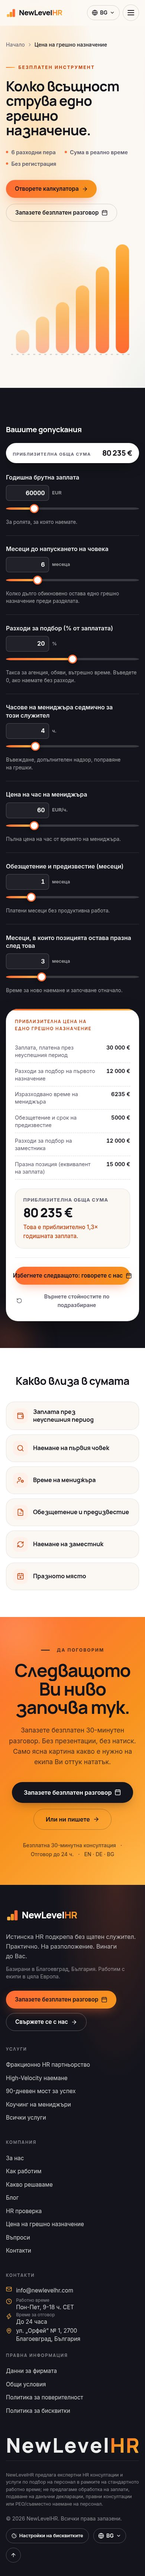
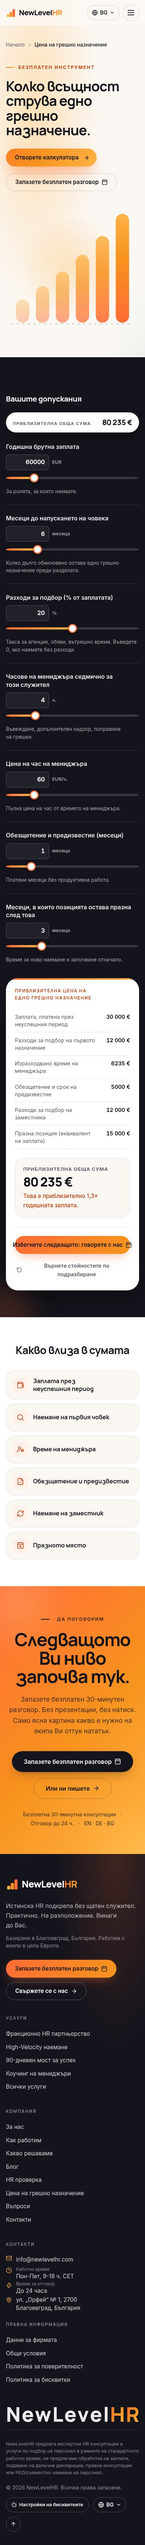
refactor: drop the facts row from the tool heroes
The two tool pages now go straight from the headline to the buttons, and
PageHero loses the `facts` prop that nothing else used.

Claude-Session: https://claude.ai/code/session_01CErwx2ZVAYE4J9YwqAKaqA

Changed region(s): [[0.0, 0.0312, 1.0, 0.9977], [0.7385, 0.9353, 0.8615, 0.9977], [0.8923, 0.9353, 0.9538, 0.9665]]

diff --git a/src/i18n/bg/tools.ts b/src/i18n/bg/tools.ts
@@ -10,7 +10,6 @@ export const tools: ToolsDict = {
       eyebrow: 'Безплатен инструмент',
       title: 'Пет въпроса. Една честна картина.',
       text: 'Къде е човешката страна на компанията Ви днес, за около минута. Нищо не се изпраща до нас и нищо не се запазва.',
-      facts: ['5 въпроса', 'Около минута', 'Без регистрация'],
       start: 'Започнете проверката',
     },
     areas: {
@@ -27,7 +26,6 @@ export const tools: ToolsDict = {
       eyebrow: 'Безплатен инструмент',
       title: 'Колко всъщност струва едно грешно назначение.',
       text: 'Нагласете допусканията към Вашата компания и вижте как числото се движи. Всеки ред от сметката се вижда, за да можете да оспорите всеки от тях.',
-      facts: ['6 разходни пера', 'Сума в реално време', 'Без регистрация'],
       start: 'Отворете калкулатора',
     },
     included: {

diff --git a/src/i18n/de/tools.ts b/src/i18n/de/tools.ts
@@ -10,7 +10,6 @@ export const tools: ToolsDict = {
       eyebrow: 'Kostenloses Werkzeug',
       title: 'Fünf Fragen. Ein ehrliches Bild.',
       text: 'Wo die People-Seite Ihres Unternehmens heute steht, in etwa einer Minute. Nichts wird an uns gesendet und nichts gespeichert.',
-      facts: ['5 Fragen', 'Etwa eine Minute', 'Ohne Anmeldung'],
       start: 'Check starten',
     },
     areas: {
@@ -27,7 +26,6 @@ export const tools: ToolsDict = {
       eyebrow: 'Kostenloses Werkzeug',
       title: 'Was eine Fehlbesetzung wirklich kostet.',
       text: 'Passen Sie die Annahmen an Ihr Unternehmen an und sehen Sie die Summe mitlaufen. Jede Zeile der Rechnung ist sichtbar, Sie können jede davon bestreiten.',
-      facts: ['6 Kostenpositionen', 'Summe in Echtzeit', 'Ohne Anmeldung'],
       start: 'Rechner öffnen',
     },
     included: {

diff --git a/src/i18n/en/tools.ts b/src/i18n/en/tools.ts
@@ -14,7 +14,6 @@ export const tools = {
       title: 'Five questions. One honest picture.',
       /** Long form, used by the tools teaser on the home page. */
       text: 'Where the people side of your company stands today, in about a minute. Nothing is sent to us and nothing is stored.',
-      facts: ['5 questions', 'About a minute', 'No sign-up'],
       start: 'Start the check',
     },
     areas: {
@@ -32,7 +31,6 @@ export const tools = {
       title: 'What one wrong hire actually costs.',
       /** Long form, used by the tools teaser on the home page. */
       text: 'Adjust the assumptions to your company and watch the number move. Every line of the calculation is visible, so you can argue with any of them.',
-      facts: ['6 cost lines', 'Live total', 'No sign-up'],
       start: 'Open the calculator',
     },
     included: {

diff --git a/docs/qa-screenshots/README.md b/docs/qa-screenshots/README.md
@@ -1,8 +1,8 @@
 # QA screenshots
 
-Generated 2026-09-22 12:04 UTC from `http://127.0.0.1:4173` with `npm run qa:screenshots`.
+Generated 2026-09-22 13:30 UTC from `http://127.0.0.1:4178` with `npm run qa:screenshots`.
 
-* 58 pages × 390 / 1440 px full-page screenshots, plus UI states per language.
+* 6 pages × 390 / 1440 px full-page screenshots, plus UI states per language.
 * Horizontal-overflow check at 360 / 390 / 768 / 1024 / 1280 / 1440 / 1920 px: **no page scrolls horizontally**.
 * Console errors while capturing: **0**.
 * Captures that failed: **0**.
@@ -15,143 +15,15 @@ not a blank section.
 
 | Page | Width | Overflow | JS errors | File |
 | --- | --- | --- | --- | --- |
-| /bg/ | 390 | no | 0 | [bg/home@390.jpg](./bg/home@390.jpg) |
-| /bg/ | 1440 | no | 0 | [bg/home@1440.jpg](./bg/home@1440.jpg) |
-| /bg/blog/ | 390 | no | 0 | [bg/blog@390.jpg](./bg/blog@390.jpg) |
-| /bg/blog/ | 1440 | no | 0 | [bg/blog@1440.jpg](./bg/blog@1440.jpg) |
-| /bg/blog/purvite-90-dni-reshavat/ | 390 | no | 0 | [bg/blog-purvite-90-dni-reshavat@390.jpg](./bg/blog-purvite-90-dni-reshavat@390.jpg) |
-| /bg/blog/purvite-90-dni-reshavat/ | 1440 | no | 0 | [bg/blog-purvite-90-dni-reshavat@1440.jpg](./bg/blog-purvite-90-dni-reshavat@1440.jpg) |
-| /bg/faq/ | 390 | no | 0 | [bg/faq@390.jpg](./bg/faq@390.jpg) |
-| /bg/faq/ | 1440 | no | 0 | [bg/faq@1440.jpg](./bg/faq@1440.jpg) |
 | /bg/hr-proverka/ | 390 | no | 0 | [bg/hr-proverka@390.jpg](./bg/hr-proverka@390.jpg) |
 | /bg/hr-proverka/ | 1440 | no | 0 | [bg/hr-proverka@1440.jpg](./bg/hr-proverka@1440.jpg) |
-| /bg/kak-rabotim/ | 390 | no | 0 | [bg/kak-rabotim@390.jpg](./bg/kak-rabotim@390.jpg) |
-| /bg/kak-rabotim/ | 1440 | no | 0 | [bg/kak-rabotim@1440.jpg](./bg/kak-rabotim@1440.jpg) |
-| /bg/kakvo-reshavame/ | 390 | no | 0 | [bg/kakvo-reshavame@390.jpg](./bg/kakvo-reshavame@390.jpg) |
-| /bg/kakvo-reshavame/ | 1440 | no | 0 | [bg/kakvo-reshavame@1440.jpg](./bg/kakvo-reshavame@1440.jpg) |
-| /bg/kontakti/ | 390 | no | 0 | [bg/kontakti@390.jpg](./bg/kontakti@390.jpg) |
-| /bg/kontakti/ | 1440 | no | 0 | [bg/kontakti@1440.jpg](./bg/kontakti@1440.jpg) |
-| /bg/obshti-usloviya/ | 390 | no | 0 | [bg/obshti-usloviya@390.jpg](./bg/obshti-usloviya@390.jpg) |
-| /bg/obshti-usloviya/ | 1440 | no | 0 | [bg/obshti-usloviya@1440.jpg](./bg/obshti-usloviya@1440.jpg) |
-| /bg/politika-za-biskvitki/ | 390 | no | 0 | [bg/politika-za-biskvitki@390.jpg](./bg/politika-za-biskvitki@390.jpg) |
-| /bg/politika-za-biskvitki/ | 1440 | no | 0 | [bg/politika-za-biskvitki@1440.jpg](./bg/politika-za-biskvitki@1440.jpg) |
-| /bg/poveritelnost/ | 390 | no | 0 | [bg/poveritelnost@390.jpg](./bg/poveritelnost@390.jpg) |
-| /bg/poveritelnost/ | 1440 | no | 0 | [bg/poveritelnost@1440.jpg](./bg/poveritelnost@1440.jpg) |
-| /bg/pravna-informatsia/ | 390 | no | 0 | [bg/pravna-informatsia@390.jpg](./bg/pravna-informatsia@390.jpg) |
-| /bg/pravna-informatsia/ | 1440 | no | 0 | [bg/pravna-informatsia@1440.jpg](./bg/pravna-informatsia@1440.jpg) |
 | /bg/tsena-na-greshno-naznachenie/ | 390 | no | 0 | [bg/tsena-na-greshno-naznachenie@390.jpg](./bg/tsena-na-greshno-naznachenie@390.jpg) |
 | /bg/tsena-na-greshno-naznachenie/ | 1440 | no | 0 | [bg/tsena-na-greshno-naznachenie@1440.jpg](./bg/tsena-na-greshno-naznachenie@1440.jpg) |
-| /bg/uslugi/ | 390 | no | 0 | [bg/uslugi@390.jpg](./bg/uslugi@390.jpg) |
-| /bg/uslugi/ | 1440 | no | 0 | [bg/uslugi@1440.jpg](./bg/uslugi@1440.jpg) |
-| /bg/uslugi/90-dneven-most-za-uspeh/ | 390 | no | 0 | [bg/uslugi-90-dneven-most-za-uspeh@390.jpg](./bg/uslugi-90-dneven-most-za-uspeh@390.jpg) |
-| /bg/uslugi/90-dneven-most-za-uspeh/ | 1440 | no | 0 | [bg/uslugi-90-dneven-most-za-uspeh@1440.jpg](./bg/uslugi-90-dneven-most-za-uspeh@1440.jpg) |
-| /bg/uslugi/fraktsionno-hr-partniorstvo/ | 390 | no | 0 | [bg/uslugi-fraktsionno-hr-partniorstvo@390.jpg](./bg/uslugi-fraktsionno-hr-partniorstvo@390.jpg) |
-| /bg/uslugi/fraktsionno-hr-partniorstvo/ | 1440 | no | 0 | [bg/uslugi-fraktsionno-hr-partniorstvo@1440.jpg](./bg/uslugi-fraktsionno-hr-partniorstvo@1440.jpg) |
-| /bg/uslugi/high-velocity-naemane/ | 390 | no | 0 | [bg/uslugi-high-velocity-naemane@390.jpg](./bg/uslugi-high-velocity-naemane@390.jpg) |
-| /bg/uslugi/high-velocity-naemane/ | 1440 | no | 0 | [bg/uslugi-high-velocity-naemane@1440.jpg](./bg/uslugi-high-velocity-naemane@1440.jpg) |
-| /bg/uslugi/kouching-za-menidzhari/ | 390 | no | 0 | [bg/uslugi-kouching-za-menidzhari@390.jpg](./bg/uslugi-kouching-za-menidzhari@390.jpg) |
-| /bg/uslugi/kouching-za-menidzhari/ | 1440 | no | 0 | [bg/uslugi-kouching-za-menidzhari@1440.jpg](./bg/uslugi-kouching-za-menidzhari@1440.jpg) |
-| /bg/za-nas/ | 390 | no | 0 | [bg/za-nas@390.jpg](./bg/za-nas@390.jpg) |
-| /bg/za-nas/ | 1440 | no | 0 | [bg/za-nas@1440.jpg](./bg/za-nas@1440.jpg) |
-| /de/ | 390 | no | 0 | [de/home@390.jpg](./de/home@390.jpg) |
-| /de/ | 1440 | no | 0 | [de/home@1440.jpg](./de/home@1440.jpg) |
-| /de/agb/ | 390 | no | 0 | [de/agb@390.jpg](./de/agb@390.jpg) |
-| /de/agb/ | 1440 | no | 0 | [de/agb@1440.jpg](./de/agb@1440.jpg) |
-| /de/blog/ | 390 | no | 0 | [de/blog@390.jpg](./de/blog@390.jpg) |
-| /de/blog/ | 1440 | no | 0 | [de/blog@1440.jpg](./de/blog@1440.jpg) |
-| /de/blog/die-ersten-90-tage-entscheiden/ | 390 | no | 0 | [de/blog-die-ersten-90-tage-entscheiden@390.jpg](./de/blog-die-ersten-90-tage-entscheiden@390.jpg) |
-| /de/blog/die-ersten-90-tage-entscheiden/ | 1440 | no | 0 | [de/blog-die-ersten-90-tage-entscheiden@1440.jpg](./de/blog-die-ersten-90-tage-entscheiden@1440.jpg) |
-| /de/cookie-richtlinie/ | 390 | no | 0 | [de/cookie-richtlinie@390.jpg](./de/cookie-richtlinie@390.jpg) |
-| /de/cookie-richtlinie/ | 1440 | no | 0 | [de/cookie-richtlinie@1440.jpg](./de/cookie-richtlinie@1440.jpg) |
-| /de/datenschutz/ | 390 | no | 0 | [de/datenschutz@390.jpg](./de/datenschutz@390.jpg) |
-| /de/datenschutz/ | 1440 | no | 0 | [de/datenschutz@1440.jpg](./de/datenschutz@1440.jpg) |
-| /de/faq/ | 390 | no | 0 | [de/faq@390.jpg](./de/faq@390.jpg) |
-| /de/faq/ | 1440 | no | 0 | [de/faq@1440.jpg](./de/faq@1440.jpg) |
 | /de/hr-check/ | 390 | no | 0 | [de/hr-check@390.jpg](./de/hr-check@390.jpg) |
 | /de/hr-check/ | 1440 | no | 0 | [de/hr-check@1440.jpg](./de/hr-check@1440.jpg) |
-| /de/impressum/ | 390 | no | 0 | [de/impressum@390.jpg](./de/impressum@390.jpg) |
-| /de/impressum/ | 1440 | no | 0 | [de/impressum@1440.jpg](./de/impressum@1440.jpg) |
-| /de/kontakt/ | 390 | no | 0 | [de/kontakt@390.jpg](./de/kontakt@390.jpg) |
-| /de/kontakt/ | 1440 | no | 0 | [de/kontakt@1440.jpg](./de/kontakt@1440.jpg) |
 | /de/kosten-einer-fehlbesetzung/ | 390 | no | 0 | [de/kosten-einer-fehlbesetzung@390.jpg](./de/kosten-einer-fehlbesetzung@390.jpg) |
 | /de/kosten-einer-fehlbesetzung/ | 1440 | no | 0 | [de/kosten-einer-fehlbesetzung@1440.jpg](./de/kosten-einer-fehlbesetzung@1440.jpg) |
-| /de/leistungen/ | 390 | no | 0 | [de/leistungen@390.jpg](./de/leistungen@390.jpg) |
-| /de/leistungen/ | 1440 | no | 0 | [de/leistungen@1440.jpg](./de/leistungen@1440.jpg) |
-| /de/leistungen/90-tage-erfolgsbruecke/ | 390 | no | 0 | [de/leistungen-90-tage-erfolgsbruecke@390.jpg](./de/leistungen-90-tage-erfolgsbruecke@390.jpg) |
-| /de/leistungen/90-tage-erfolgsbruecke/ | 1440 | no | 0 | [de/leistungen-90-tage-erfolgsbruecke@1440.jpg](./de/leistungen-90-tage-erfolgsbruecke@1440.jpg) |
-| /de/leistungen/fraktionale-hr-partnerschaft/ | 390 | no | 0 | [de/leistungen-fraktionale-hr-partnerschaft@390.jpg](./de/leistungen-fraktionale-hr-partnerschaft@390.jpg) |
-| /de/leistungen/fraktionale-hr-partnerschaft/ | 1440 | no | 0 | [de/leistungen-fraktionale-hr-partnerschaft@1440.jpg](./de/leistungen-fraktionale-hr-partnerschaft@1440.jpg) |
-| /de/leistungen/high-velocity-hiring/ | 390 | no | 0 | [de/leistungen-high-velocity-hiring@390.jpg](./de/leistungen-high-velocity-hiring@390.jpg) |
-| /de/leistungen/high-velocity-hiring/ | 1440 | no | 0 | [de/leistungen-high-velocity-hiring@1440.jpg](./de/leistungen-high-velocity-hiring@1440.jpg) |
-| /de/leistungen/manager-coaching/ | 390 | no | 0 | [de/leistungen-manager-coaching@390.jpg](./de/leistungen-manager-coaching@390.jpg) |
-| /de/leistungen/manager-coaching/ | 1440 | no | 0 | [de/leistungen-manager-coaching@1440.jpg](./de/leistungen-manager-coaching@1440.jpg) |
-| /de/so-arbeiten-wir/ | 390 | no | 0 | [de/so-arbeiten-wir@390.jpg](./de/so-arbeiten-wir@390.jpg) |
-| /de/so-arbeiten-wir/ | 1440 | no | 0 | [de/so-arbeiten-wir@1440.jpg](./de/so-arbeiten-wir@1440.jpg) |
-| /de/ueber-uns/ | 390 | no | 0 | [de/ueber-uns@390.jpg](./de/ueber-uns@390.jpg) |
-| /de/ueber-uns/ | 1440 | no | 0 | [de/ueber-uns@1440.jpg](./de/ueber-uns@1440.jpg) |
-| /de/was-wir-loesen/ | 390 | no | 0 | [de/was-wir-loesen@390.jpg](./de/was-wir-loesen@390.jpg) |
-| /de/was-wir-loesen/ | 1440 | no | 0 | [de/was-wir-loesen@1440.jpg](./de/was-wir-loesen@1440.jpg) |
-| /en/ | 390 | no | 0 | [en/home@390.jpg](./en/home@390.jpg) |
-| /en/ | 1440 | no | 0 | [en/home@1440.jpg](./en/home@1440.jpg) |
-| /en/about/ | 390 | no | 0 | [en/about@390.jpg](./en/about@390.jpg) |
-| /en/about/ | 1440 | no | 0 | [en/about@1440.jpg](./en/about@1440.jpg) |
-| /en/blog/ | 390 | no | 0 | [en/blog@390.jpg](./en/blog@390.jpg) |
-| /en/blog/ | 1440 | no | 0 | [en/blog@1440.jpg](./en/blog@1440.jpg) |
-| /en/blog/first-90-days-decide-the-hire/ | 390 | no | 0 | [en/blog-first-90-days-decide-the-hire@390.jpg](./en/blog-first-90-days-decide-the-hire@390.jpg) |
-| /en/blog/first-90-days-decide-the-hire/ | 1440 | no | 0 | [en/blog-first-90-days-decide-the-hire@1440.jpg](./en/blog-first-90-days-decide-the-hire@1440.jpg) |
-| /en/blog/pay-transparency-what-smes-need/ | 390 | no | 0 | [en/blog-pay-transparency-what-smes-need@390.jpg](./en/blog-pay-transparency-what-smes-need@390.jpg) |
-| /en/blog/pay-transparency-what-smes-need/ | 1440 | no | 0 | [en/blog-pay-transparency-what-smes-need@1440.jpg](./en/blog-pay-transparency-what-smes-need@1440.jpg) |
-| /en/contact/ | 390 | no | 0 | [en/contact@390.jpg](./en/contact@390.jpg) |
-| /en/contact/ | 1440 | no | 0 | [en/contact@1440.jpg](./en/contact@1440.jpg) |
-| /en/cookie-policy/ | 390 | no | 0 | [en/cookie-policy@390.jpg](./en/cookie-policy@390.jpg) |
-| /en/cookie-policy/ | 1440 | no | 0 | [en/cookie-policy@1440.jpg](./en/cookie-policy@1440.jpg) |
 | /en/cost-of-a-bad-hire/ | 390 | no | 0 | [en/cost-of-a-bad-hire@390.jpg](./en/cost-of-a-bad-hire@390.jpg) |
 | /en/cost-of-a-bad-hire/ | 1440 | no | 0 | [en/cost-of-a-bad-hire@1440.jpg](./en/cost-of-a-bad-hire@1440.jpg) |
-| /en/faq/ | 390 | no | 0 | [en/faq@390.jpg](./en/faq@390.jpg) |
-| /en/faq/ | 1440 | no | 0 | [en/faq@1440.jpg](./en/faq@1440.jpg) |
-| /en/how-we-work/ | 390 | no | 0 | [en/how-we-work@390.jpg](./en/how-we-work@390.jpg) |
-| /en/how-we-work/ | 1440 | no | 0 | [en/how-we-work@1440.jpg](./en/how-we-work@1440.jpg) |
 | /en/hr-health-check/ | 390 | no | 0 | [en/hr-health-check@390.jpg](./en/hr-health-check@390.jpg) |
 | /en/hr-health-check/ | 1440 | no | 0 | [en/hr-health-check@1440.jpg](./en/hr-health-check@1440.jpg) |
-| /en/legal-notice/ | 390 | no | 0 | [en/legal-notice@390.jpg](./en/legal-notice@390.jpg) |
-| /en/legal-notice/ | 1440 | no | 0 | [en/legal-notice@1440.jpg](./en/legal-notice@1440.jpg) |
-| /en/privacy-policy/ | 390 | no | 0 | [en/privacy-policy@390.jpg](./en/privacy-policy@390.jpg) |
-| /en/privacy-policy/ | 1440 | no | 0 | [en/privacy-policy@1440.jpg](./en/privacy-policy@1440.jpg) |
-| /en/services/ | 390 | no | 0 | [en/services@390.jpg](./en/services@390.jpg) |
-| /en/services/ | 1440 | no | 0 | [en/services@1440.jpg](./en/services@1440.jpg) |
-| /en/services/90-day-success-bridge/ | 390 | no | 0 | [en/services-90-day-success-bridge@390.jpg](./en/services-90-day-success-bridge@390.jpg) |
-| /en/services/90-day-success-bridge/ | 1440 | no | 0 | [en/services-90-day-success-bridge@1440.jpg](./en/services-90-day-success-bridge@1440.jpg) |
-| /en/services/fractional-hr-partnership/ | 390 | no | 0 | [en/services-fractional-hr-partnership@390.jpg](./en/services-fractional-hr-partnership@390.jpg) |
-| /en/services/fractional-hr-partnership/ | 1440 | no | 0 | [en/services-fractional-hr-partnership@1440.jpg](./en/services-fractional-hr-partnership@1440.jpg) |
-| /en/services/high-velocity-hiring/ | 390 | no | 0 | [en/services-high-velocity-hiring@390.jpg](./en/services-high-velocity-hiring@390.jpg) |
-| /en/services/high-velocity-hiring/ | 1440 | no | 0 | [en/services-high-velocity-hiring@1440.jpg](./en/services-high-velocity-hiring@1440.jpg) |
-| /en/services/manager-coaching/ | 390 | no | 0 | [en/services-manager-coaching@390.jpg](./en/services-manager-coaching@390.jpg) |
-| /en/services/manager-coaching/ | 1440 | no | 0 | [en/services-manager-coaching@1440.jpg](./en/services-manager-coaching@1440.jpg) |
-| /en/terms/ | 390 | no | 0 | [en/terms@390.jpg](./en/terms@390.jpg) |
-| /en/terms/ | 1440 | no | 0 | [en/terms@1440.jpg](./en/terms@1440.jpg) |
-| /en/what-we-fix/ | 390 | no | 0 | [en/what-we-fix@390.jpg](./en/what-we-fix@390.jpg) |
-| /en/what-we-fix/ | 1440 | no | 0 | [en/what-we-fix@1440.jpg](./en/what-we-fix@1440.jpg) |
-| /en/ (cookie dialog) | 390 | no | 0 | [en/state-cookie-dialog@390.jpg](./en/state-cookie-dialog@390.jpg) |
-| /en/ (cookie dialog) | 1440 | no | 0 | [en/state-cookie-dialog@1440.jpg](./en/state-cookie-dialog@1440.jpg) |
-| /en/ (cookie settings) | 1440 | no | 0 | [en/state-cookie-settings@1440.jpg](./en/state-cookie-settings@1440.jpg) |
-| /en/ (language banner, browser de-DE) | 1440 | no | 0 | [en/state-language-banner@1440.jpg](./en/state-language-banner@1440.jpg) |
-| /en/ (mobile menu) | 390 | no | 0 | [en/state-mobile-menu@390.jpg](./en/state-mobile-menu@390.jpg) |
-| /en/ (mega menu) | 1440 | no | 0 | [en/state-mega-menu@1440.jpg](./en/state-mega-menu@1440.jpg) |
-| /en/this-page-does-not-exist/ (status 404) | 390 | no | 0 | [en/state-404@390.jpg](./en/state-404@390.jpg) |
-| /en/this-page-does-not-exist/ (status 404) | 1440 | no | 0 | [en/state-404@1440.jpg](./en/state-404@1440.jpg) |
-| /de/ (cookie dialog) | 390 | no | 0 | [de/state-cookie-dialog@390.jpg](./de/state-cookie-dialog@390.jpg) |
-| /de/ (cookie dialog) | 1440 | no | 0 | [de/state-cookie-dialog@1440.jpg](./de/state-cookie-dialog@1440.jpg) |
-| /de/ (cookie settings) | 1440 | no | 0 | [de/state-cookie-settings@1440.jpg](./de/state-cookie-settings@1440.jpg) |
-| /de/ (language banner, browser en-GB) | 1440 | no | 0 | [de/state-language-banner@1440.jpg](./de/state-language-banner@1440.jpg) |
-| /de/ (mobile menu) | 390 | no | 0 | [de/state-mobile-menu@390.jpg](./de/state-mobile-menu@390.jpg) |
-| /de/ (mega menu) | 1440 | no | 0 | [de/state-mega-menu@1440.jpg](./de/state-mega-menu@1440.jpg) |
-| /de/this-page-does-not-exist/ (status 404) | 390 | no | 0 | [de/state-404@390.jpg](./de/state-404@390.jpg) |
-| /de/this-page-does-not-exist/ (status 404) | 1440 | no | 0 | [de/state-404@1440.jpg](./de/state-404@1440.jpg) |
-| /bg/ (cookie dialog) | 390 | no | 0 | [bg/state-cookie-dialog@390.jpg](./bg/state-cookie-dialog@390.jpg) |
-| /bg/ (cookie dialog) | 1440 | no | 0 | [bg/state-cookie-dialog@1440.jpg](./bg/state-cookie-dialog@1440.jpg) |
-| /bg/ (cookie settings) | 1440 | no | 0 | [bg/state-cookie-settings@1440.jpg](./bg/state-cookie-settings@1440.jpg) |
-| /bg/ (language banner, browser de-DE) | 1440 | no | 0 | [bg/state-language-banner@1440.jpg](./bg/state-language-banner@1440.jpg) |
-| /bg/ (mobile menu) | 390 | no | 0 | [bg/state-mobile-menu@390.jpg](./bg/state-mobile-menu@390.jpg) |
-| /bg/ (mega menu) | 1440 | no | 0 | [bg/state-mega-menu@1440.jpg](./bg/state-mega-menu@1440.jpg) |
-| /bg/this-page-does-not-exist/ (status 404) | 390 | no | 0 | [bg/state-404@390.jpg](./bg/state-404@390.jpg) |
-| /bg/this-page-does-not-exist/ (status 404) | 1440 | no | 0 | [bg/state-404@1440.jpg](./bg/state-404@1440.jpg) |

diff --git a/docs/qa/e2e.md b/docs/qa/e2e.md
@@ -1,39 +1,39 @@
 # End-to-end checks
 
-Generated 2026-09-22 11:34 UTC with `npm run qa:e2e` against `http://127.0.0.1:4181`. 33/33 passed.
+Generated 2026-09-22 13:27 UTC with `npm run qa:e2e` against `http://127.0.0.1:4181`. 33/33 passed.
 
 | Check | Result | Time |
 | --- | --- | --- |
-| root / redirects to /en/ | ✅ pass | 242 ms |
-| cookie dialog: no optional storage before consent, Accept stores analytics=true | ✅ pass | 3068 ms |
-| cookie dialog: Reject stores analytics=false and marketing=false | ✅ pass | 1360 ms |
-| cookie dialog: Configure -> save keeps the chosen categories | ✅ pass | 1486 ms |
-| footer "Cookie settings" reopens the dialog after consent | ✅ pass | 1643 ms |
-| language banner suggests German to a German browser on the English page and never redirects | ✅ pass | 3717 ms |
-| language banner stays hidden for an English browser on the English page | ✅ pass | 2056 ms |
-| language switcher sits in the header on a phone, before anything is opened | ✅ pass | 2638 ms |
-| language switcher opens the same page in DE and BG (translated slugs) | ✅ pass | 3883 ms |
-| hreflang: EN page lists en/de/bg + x-default and the DE page links back | ✅ pass | 448 ms |
-| header: mega menu opens on hover and on keyboard, closes with Escape | ✅ pass | 3364 ms |
-| header: mobile menu opens, links are focusable, closes with Escape | ✅ pass | 2567 ms |
-| header stays visible while scrolling down | ✅ pass | 3680 ms |
-| cost calculator: the track fill follows the slider | ✅ pass | 2871 ms |
-| what we fix: the problem bar is full width on phones, centres the active chip and jumps correctly | ✅ pass | 8121 ms |
-| anchors in the URL land under the sticky header | ✅ pass | 5723 ms |
-| mobile menu: the whole panel is reachable on a short phone | ✅ pass | 3818 ms |
-| contact: the topic dropdown hangs off the button and closes on an outside click | ✅ pass | 4517 ms |
-| mobile menu: services opens its sub-list first and follows the link on the second tap | ✅ pass | 4397 ms |
-| primary calls to action land on the right page | ✅ pass | 4068 ms |
-| blog: the index filters by topic and a post opens with its own canonical | ✅ pass | 2710 ms |
-| tools: each one has its own page and neither runs on the home page | ✅ pass | 2917 ms |
-| every inner page opens with the same hero: crumbs, title, CTAs, media | ✅ pass | 8283 ms |
-| cost calculator: the total stays on screen while the sliders scroll past | ✅ pass | 1478 ms |
-| skip link and landmarks exist | ✅ pass | 314 ms |
-| contact form: one page, custom topic dropdown, validation and a mocked send | ✅ pass | 7174 ms |
-| contact form: server error and rate limit are shown in the page language | ✅ pass | 7600 ms |
-| HR health check: answer every question and reach a result with a score | ✅ pass | 12526 ms |
-| bad-hire calculator: total updates when inputs change and reset restores defaults | ✅ pass | 3234 ms |
-| FAQ search filters questions and shows an empty state | ✅ pass | 2182 ms |
-| 404: unknown URL returns status 404 and continues to the localized 404 page | ✅ pass | 1478 ms |
-| reduced motion: no smooth-scroll class, content visible immediately | ✅ pass | 257 ms |
-| view transitions keep the header working after client-side navigation | ✅ pass | 3087 ms |
+| root / redirects to /en/ | ✅ pass | 301 ms |
+| cookie dialog: no optional storage before consent, Accept stores analytics=true | ✅ pass | 3069 ms |
+| cookie dialog: Reject stores analytics=false and marketing=false | ✅ pass | 1385 ms |
+| cookie dialog: Configure -> save keeps the chosen categories | ✅ pass | 1488 ms |
+| footer "Cookie settings" reopens the dialog after consent | ✅ pass | 1562 ms |
+| language banner suggests German to a German browser on the English page and never redirects | ✅ pass | 3816 ms |
+| language banner stays hidden for an English browser on the English page | ✅ pass | 2058 ms |
+| language switcher sits in the header on a phone, before anything is opened | ✅ pass | 2634 ms |
+| language switcher opens the same page in DE and BG (translated slugs) | ✅ pass | 3751 ms |
+| hreflang: EN page lists en/de/bg + x-default and the DE page links back | ✅ pass | 367 ms |
+| header: mega menu opens on hover and on keyboard, closes with Escape | ✅ pass | 3359 ms |
+| header: mobile menu opens, links are focusable, closes with Escape | ✅ pass | 2561 ms |
+| header stays visible while scrolling down | ✅ pass | 3550 ms |
+| cost calculator: the track fill follows the slider | ✅ pass | 2844 ms |
+| what we fix: the problem bar is full width on phones, centres the active chip and jumps correctly | ✅ pass | 7825 ms |
+| anchors in the URL land under the sticky header | ✅ pass | 5702 ms |
+| mobile menu: the whole panel is reachable on a short phone | ✅ pass | 3755 ms |
+| contact: the topic dropdown hangs off the button and closes on an outside click | ✅ pass | 4474 ms |
+| mobile menu: services opens its sub-list first and follows the link on the second tap | ✅ pass | 4403 ms |
+| primary calls to action land on the right page | ✅ pass | 3848 ms |
+| blog: the index filters by topic and a post opens with its own canonical | ✅ pass | 2616 ms |
+| tools: each one has its own page and neither runs on the home page | ✅ pass | 2865 ms |
+| every inner page opens with the same hero: crumbs, title, CTAs, media | ✅ pass | 8356 ms |
+| cost calculator: the total stays on screen while the sliders scroll past | ✅ pass | 1570 ms |
+| skip link and landmarks exist | ✅ pass | 337 ms |
+| contact form: one page, custom topic dropdown, validation and a mocked send | ✅ pass | 7070 ms |
+| contact form: server error and rate limit are shown in the page language | ✅ pass | 7229 ms |
+| HR health check: answer every question and reach a result with a score | ✅ pass | 12683 ms |
+| bad-hire calculator: total updates when inputs change and reset restores defaults | ✅ pass | 3256 ms |
+| FAQ search filters questions and shows an empty state | ✅ pass | 2192 ms |
+| 404: unknown URL returns status 404 and continues to the localized 404 page | ✅ pass | 1442 ms |
+| reduced motion: no smooth-scroll class, content visible immediately | ✅ pass | 258 ms |
+| view transitions keep the header working after client-side navigation | ✅ pass | 3125 ms |
